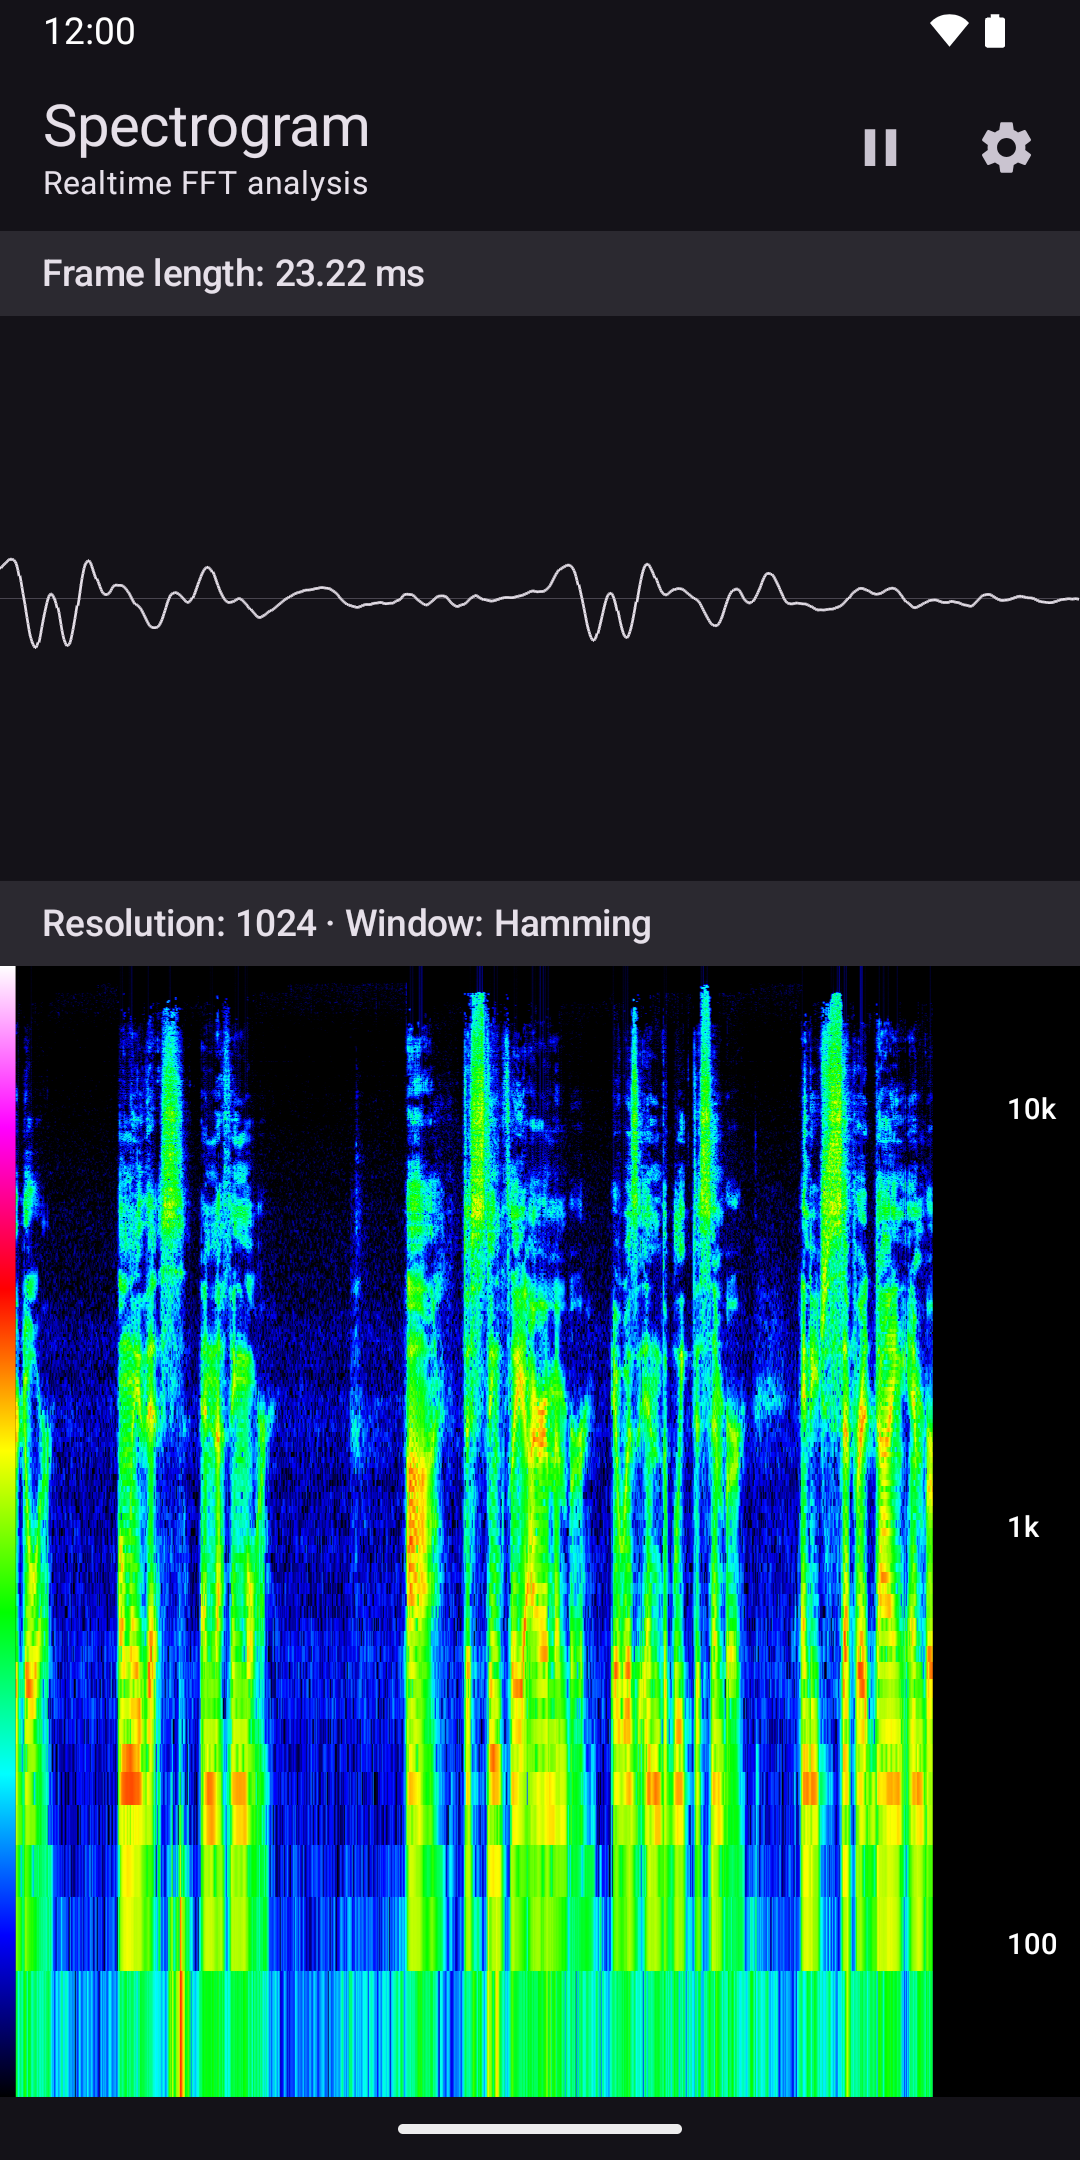
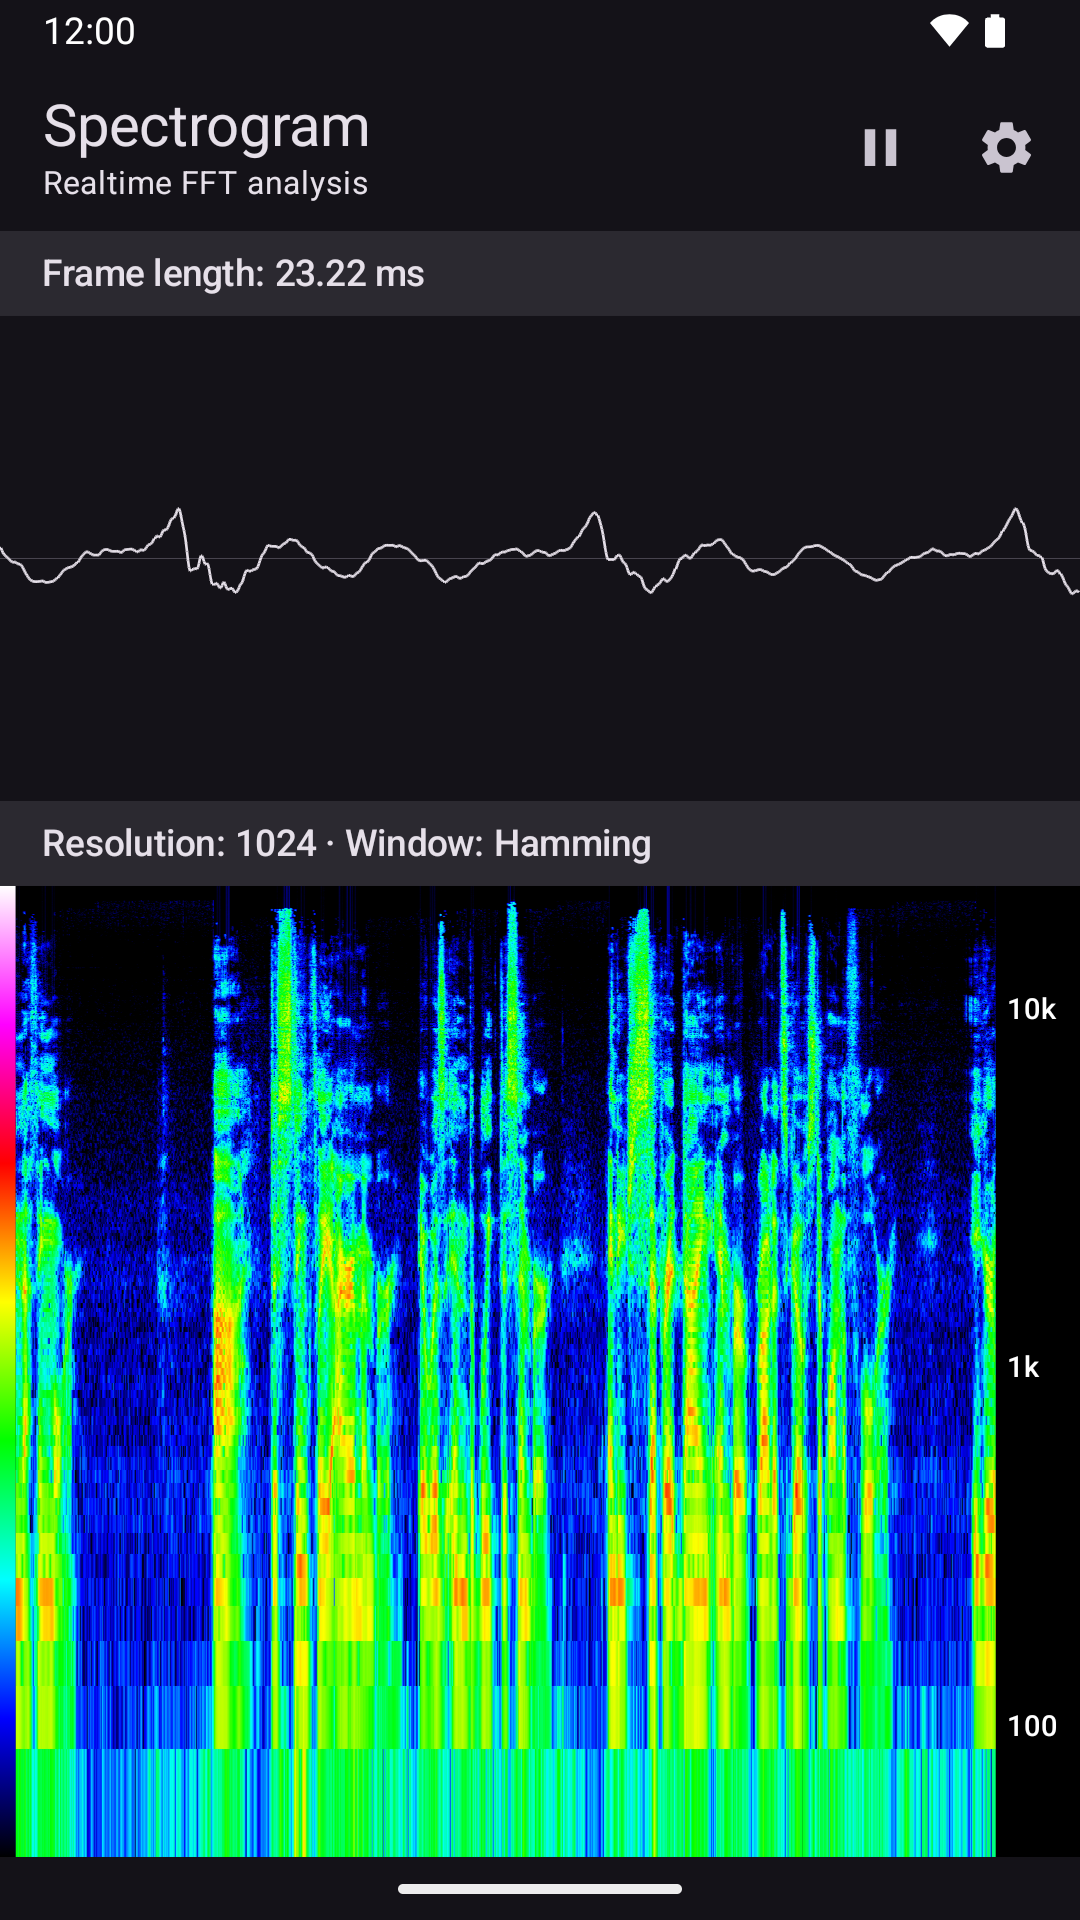
docs(release): use 9:16 store screenshots and record play console answers

diff --git a/docs/release.md b/docs/release.md
@@ -24,8 +24,10 @@ texts in English and French, images in `en-US/images`. Play Console menu names m
 
 3. **Privacy policy.** GitHub Pages publishes the `docs/` folder of `master`, so
    `docs/privacy-policy.html` is live at https://galmiza.github.io/spectrogram-android/privacy-policy.html.
-   Enter that address under *Policy and programs → App content → Privacy policy*. The page must stay
-   reachable: keep the file name and the Pages setting.
+   Enter that address under *Monitor and improve → Policy and programs → App content → Privacy
+   policy*. Play also requires a link inside the app: *Settings → About → Privacy policy* opens
+   `privacy_policy_url` from `app/src/main/res/values/strings.xml`. The page must stay reachable:
+   keep the file name and the Pages setting, and update both places if the address changes.
 
 ## Each release
 
@@ -38,7 +40,7 @@ texts in English and French, images in `en-US/images`. Play Console menu names m
 4. Upload `app-release.aab` to *Internal testing* first, install it from Play on your phone, then
    promote the release to *Production*.
 5. If the listing changed, copy the texts and upload the screenshots from `fastlane/metadata/android`.
-   Screenshots must be at most twice as long as they are wide (1080×2160 works).
+   Phone screenshots must be 9:16 (1080×1920).
 
 ## Store screenshots
 
@@ -50,7 +52,7 @@ to a 16-bit mono 44.1 kHz WAV. To make new ones:
 adb push voice.wav /data/local/tmp/voice.wav
 adb shell run-as net.galmiza.android.spectrogram.debug sh -c 'mkdir -p files && cp /data/local/tmp/voice.wav files/'
 adb shell pm grant net.galmiza.android.spectrogram.debug android.permission.RECORD_AUDIO
-adb shell wm size 1080x2160   # Play accepts at most a 2:1 aspect ratio
+adb shell wm size 1080x1920   # Play requires 9:16 phone screenshots
 adb shell am start -S -n net.galmiza.android.spectrogram.debug/net.galmiza.android.spectrogram.MainActivity \
     --es test_audio /data/user/0/net.galmiza.android.spectrogram.debug/files/voice.wav
 android screen capture -o 1.png
@@ -68,17 +70,21 @@ Android's demo mode (`adb shell am broadcast -a com.android.systemui.demo -e com
 | Ads | No, the app has no ads |
 | App access | All functionality is available without special access |
 | Content rating | Category "Utility, Productivity, Communication, or Other"; every question "No" |
-| Target audience | 13–15, 16–17 and 18+ (not designed for children, so the Families policy does not apply) |
+| Target audience | 13–15, 16–17 and 18+ only: with a younger age group the Families policy applies |
 | News app | No |
 | Data safety | No data collected and no data shared: sound is analysed on the device only, settings stay on the device |
 | Advertising ID | No, the app does not use it |
-| Government, financial, health | No / none |
+| Financial features | My app doesn't provide any financial features |
+| Health apps | My app doesn't have any health features |
+| Government apps | No |
 
 The microphone permission (`RECORD_AUDIO`) needs no special declaration form.
 
 ## Getting the app back on Play
 
-Google removed version 1.1.1 for policy issues. Read each issue under *Policy and programs →
-Policy status* and fix it: likely candidates are the privacy policy link (galmiza.net was down),
-the Data safety form and the App content declarations above. Then upload version 2.0 (it targets
-API 37, above Play's minimum of 36) and send the changes for review from *Publishing overview*.
+Google removed version 1.1.1 under the Families policy: its target audience included children and
+its privacy policy link was broken. *Policy and programs → Policy status* also lists its target API
+(below 35 and 36). Version 2.0 targets API 37 and links the privacy policy, and the App content
+answers above leave the Families policy out. To restore the app, create a Production release with
+the 2.0 bundle (1.1.1 must end up under "Not included" on every track), roll it out to 100%, then
+send the changes for review from *Publishing overview*.
